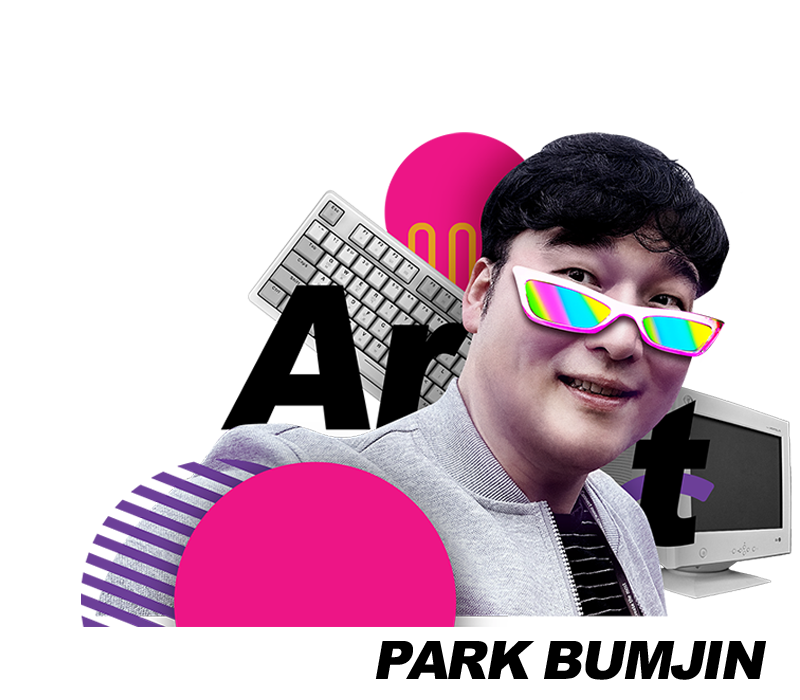
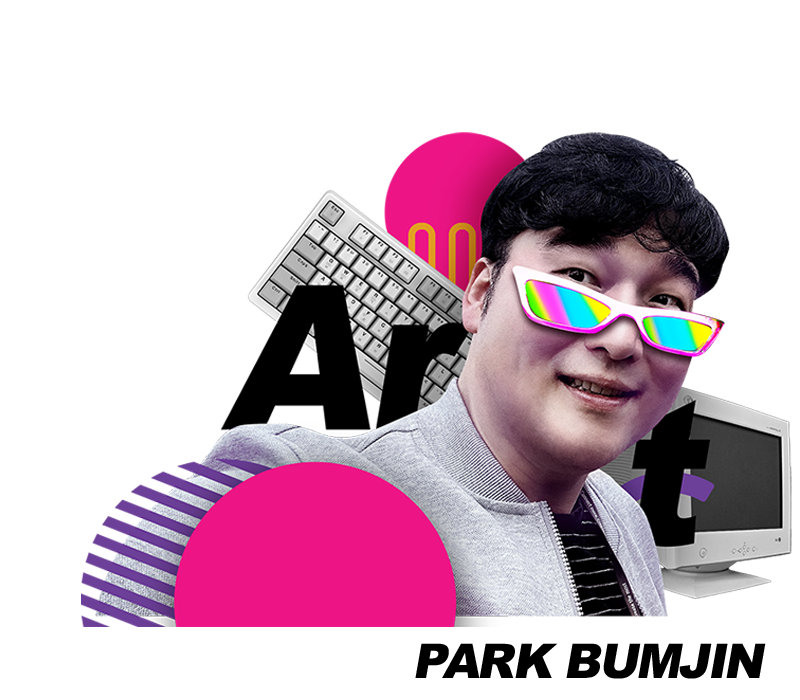
250122-3

Changed region(s): [[0.4688, 0.9, 0.9688, 0.99]]

diff --git a/index.css b/index.css
@@ -7,11 +7,11 @@ body{
     flex-direction: column;
 }
 #container{
-    width: 800px;
+    width: 780px;
     display: flex;
     flex-direction: column;
 }
-@media (max-width:800px) {
+@media (max-width:780px) {
     #container{
         width: 100%;
     }
@@ -30,9 +30,9 @@ body{
 }
 #copy1{
     width: 70%;
-    margin-left: 7%;
+    margin-left: 5%;
     font-family: Arial, sans-serif;   
-    font-size: 2.5rem; 
+    font-size: 2.2rem; 
     font-style: italic;
     display: flex;
     align-items: center;
@@ -40,9 +40,9 @@ body{
 }
 #copy2{
     width: 30%;
-    margin-right: 7%;
+    margin-right: 5%;
     font-family: Arial, sans-serif;   
-    font-size: 1.8rem; 
+    font-size: 1.5rem; 
     font-weight: bold;
     font-style: italic;
     display: flex;
@@ -57,9 +57,9 @@ body{
     background-position: center;
 }
 #copy3{
-    width: 45%;
-    margin-left: 10%;
+    width: 42%;
+    margin-left: 8%;
     height: 500px;
-    font-size: 1.3rem;
+    font-size: 1.2rem;
     line-height: 2rem;
 }
